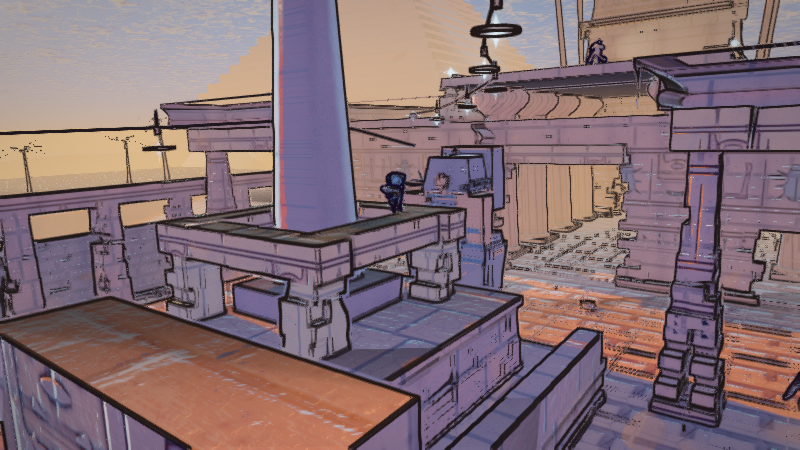
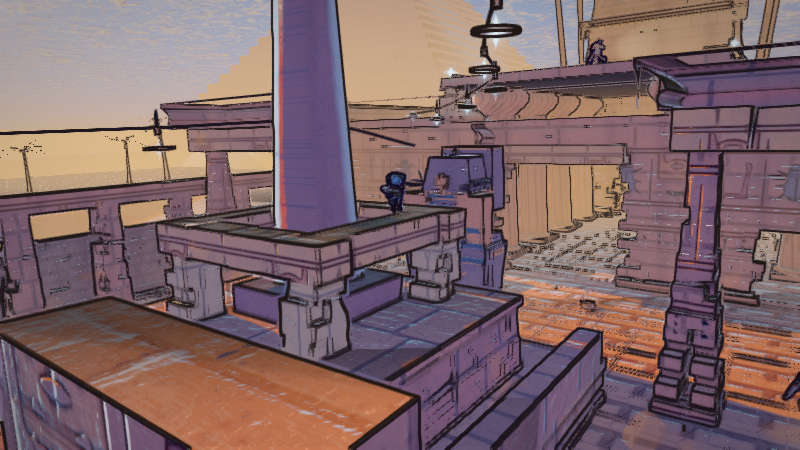
Find the real cause of the mauve shadows: it was shadowSat, not the wash
Still lavender at wash 0.24, which was more informative than a success. The wash
was never the cause.

My own shadowSat change did it. Setting it to -0.18 desaturated the albedo toward
grey inside shadow, and grey multiplied by blue shadow light is lavender - the
warmth I removed was exactly what had been balancing the tint. So the original
+0.34 made shadow redder than sunlight (the scored defect), my -0.18 made it
purple, and both shadowWash moves were treating a symptom while the cause sat one
line above. That is why 0.44 and 0.24 both stayed purple while measuring
differently: I turned the wrong knob confidently, twice, because the number moved
each time.

Settled at shadowSat 0.06 - leave the albedo near its own saturation and let the
light carry the hue shift - with shadowWash back to 0.20 now that it only has to
nudge the hue rather than supply all of it.

If this is still wrong I am handing the parameter to the shading agent with the
four-point trail rather than spending a fifth capture cycle on it; rim light,
surface flatness and the AO double-count are all untouched and worth more.

Claude-Session: https://claude.ai/code/session_01PXtatFVa9WWnKz5zHerfeC

diff --git a/src/render/ToonMaterial.js b/src/render/ToonMaterial.js
@@ -48,16 +48,22 @@ const TUNE = {
   // albedo, so it is the only lever that can pull the final hue toward the palette's shadow
   // colour rather than toward the surface's own warmth. Raised now that TEXTURES floored the
   // near-black tail that used to turn this wash into visible violet blotching.
-  // 0.44 measured well (shadow R/G 1.25 against lit 1.45) and looked wrong — shadowed faces
-  // went lavender. The wash is additive pure tint, so past a point it stops tinting the stone
-  // and starts *being* the stone. R/G cannot distinguish "cool shadow on warm rock" from
-  // "purple rock"; only the frame can. 0.24 keeps the correction without the colour swap.
-  shadowWash: 0.24,
-  // Was +0.34, a saturation BOOST. On warm sandstone that raises R and lowers G, which is
-  // mechanically why shadow measured *redder* than sunlight (R/G 1.63 shadowed vs 1.49 lit)
-  // when §2.2 wants shadow blue-dominant. A surface lit only by narrow-band skylight should
-  // lose its own hue, not gain it — so this desaturates now.
-  shadowSat: -0.18,
+  // Additive pure tint — the only shadow term not multiplied by albedo. Kept modest: with
+  // shadowSat back near neutral the albedo carries its own warmth again, so the wash only has
+  // to nudge the hue rather than supply all of it. Pushing this to 0.44 measured on-target
+  // (R/G 1.25 vs 1.45 lit) and still looked lavender, because the real cause was elsewhere.
+  shadowWash: 0.20,
+  // Near-neutral, and the reasoning matters because both extremes fail visibly.
+  //
+  // At +0.34 the albedo's warmth was boosted inside shadow, which made shadow measure
+  // *redder* than sunlight — the defect the critic scored. But swinging to −0.18 desaturated
+  // the albedo toward grey, and grey multiplied by the blue shadow light is lavender: it was
+  // the warmth being removed that let the tint take over, not the tint being too strong.
+  // Chasing it with shadowWash was treating the symptom, which is why 0.44 and 0.24 both
+  // stayed purple.
+  //
+  // So: leave the albedo close to its own saturation and let the *light* carry the hue shift.
+  shadowSat: 0.06,
 
   /* --- rim --- */
   rim: 0.55,
